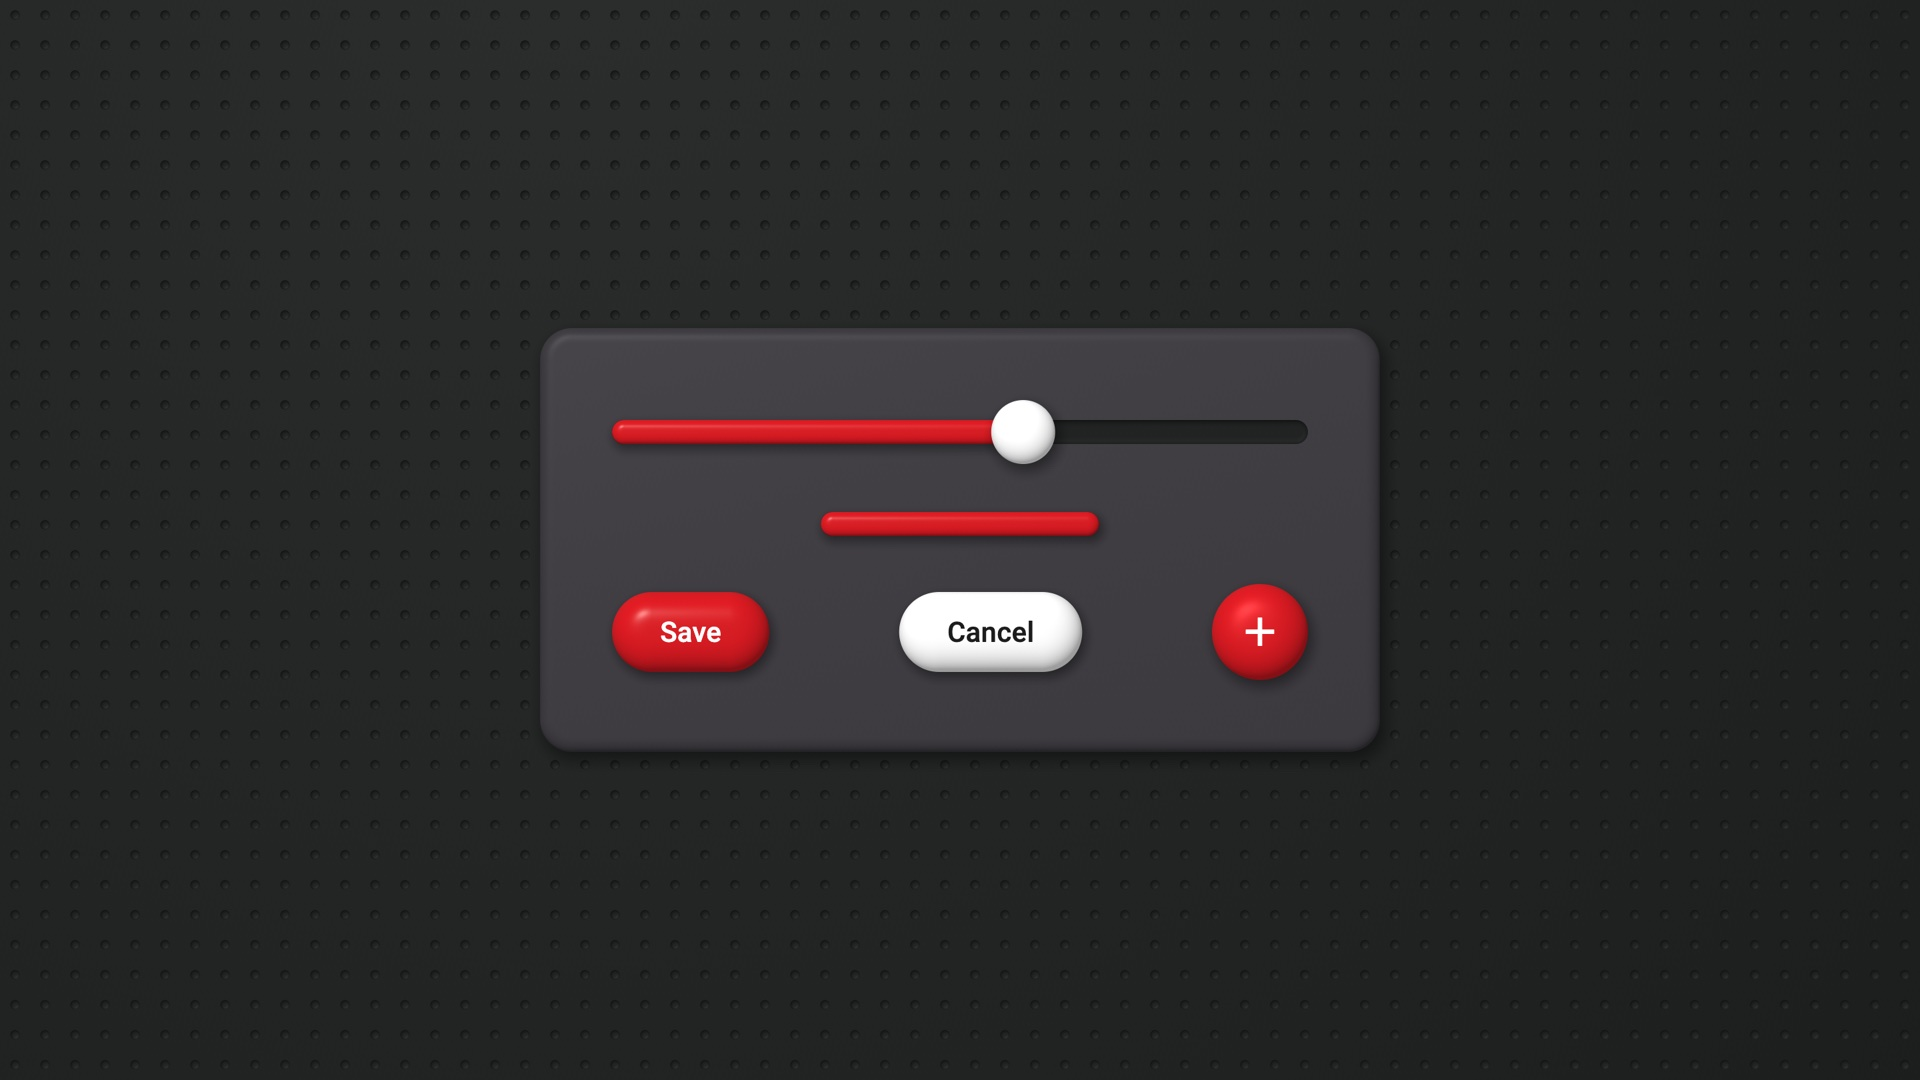
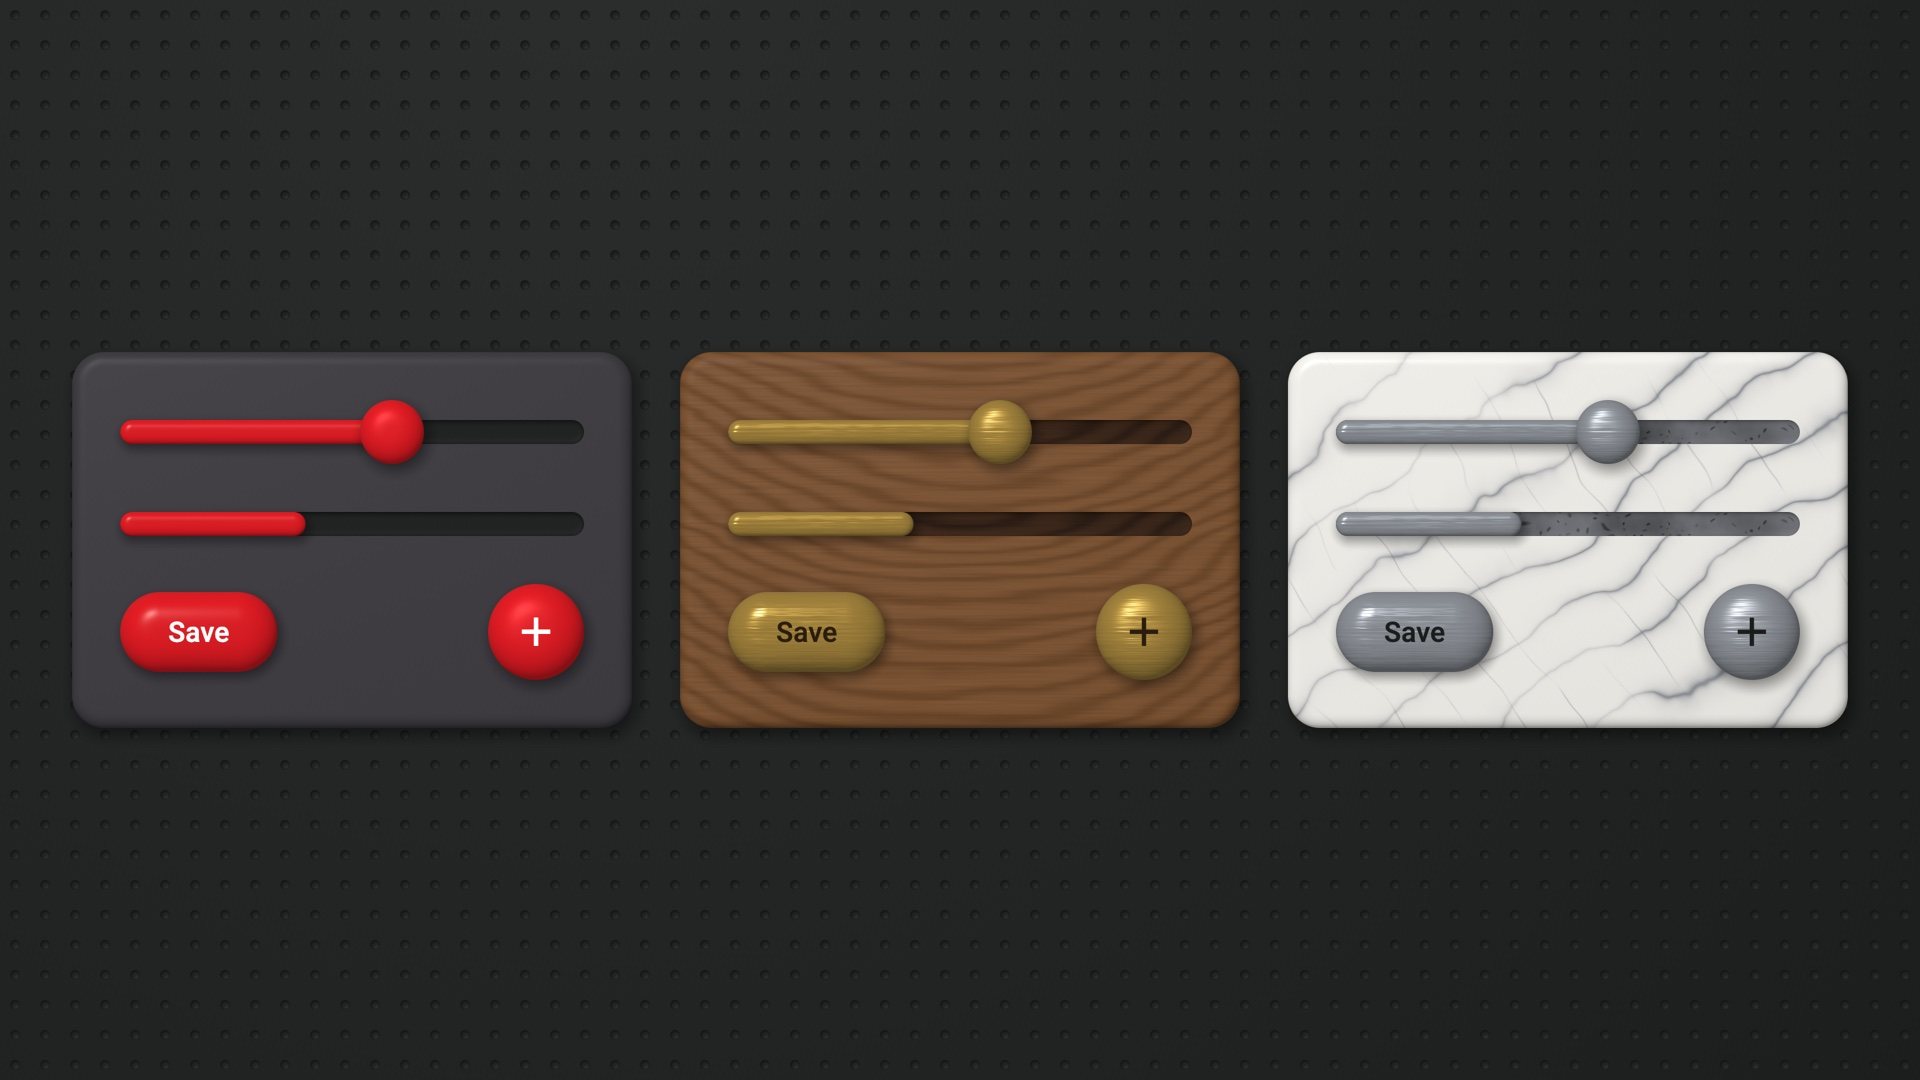
docs: show the controls in plastic, brass on oak and steel on marble

diff --git a/tool/screenshots/make_screenshots_test.dart b/tool/screenshots/make_screenshots_test.dart
@@ -48,6 +48,129 @@ abstract final class _Fonts {
   }
 }
 
+/// What one panel of controls is made of, and the colour of each part.
+enum _Made {
+  ofPlastic(
+    panel: PhysicalTexture.none,
+    panelColor: _Shot.panel,
+    fittings: PhysicalTexture.none,
+    fittingsColor: _Shot.accent,
+    labelColor: _Shot.paper,
+    track: PhysicalTexture.none,
+    trackColor: _Shot.background,
+  ),
+  ofOakAndBrass(
+    panel: PhysicalTexture.oak,
+    panelColor: Color(0xFF7A5230),
+    fittings: PhysicalTexture.brass,
+    fittingsColor: Color(0xFFC9A24B),
+    labelColor: Color(0xFF2B1D0E),
+    track: PhysicalTexture.walnut,
+    trackColor: Color(0xFF3A2414),
+  ),
+  ofMarbleAndSteel(
+    panel: PhysicalTexture.carrara,
+    panelColor: Color(0xFFE9E7E2),
+    fittings: PhysicalTexture.stainlessSteel,
+    fittingsColor: Color(0xFFAEB4BC),
+    labelColor: Color(0xFF1A1D1C),
+    track: PhysicalTexture.granite,
+    trackColor: Color(0xFF6E7075),
+  );
+
+  const _Made({
+    required this.panel,
+    required this.panelColor,
+    required this.fittings,
+    required this.fittingsColor,
+    required this.labelColor,
+    required this.track,
+    required this.trackColor,
+  });
+
+  /// What the panel is made of.
+  final PhysicalTexture panel;
+  final Color panelColor;
+
+  /// What the buttons, the bead and the bar are made of.
+  final PhysicalTexture fittings;
+  final Color fittingsColor;
+  final Color labelColor;
+
+  /// What the recessed tracks are made of.
+  final PhysicalTexture track;
+  final Color trackColor;
+}
+
+/// A slider, a progress bar and two buttons on a panel, all [made] of the
+/// same few substances.
+class _Controls extends StatelessWidget {
+  const _Controls(this.made);
+
+  static const _slid = 0.6;
+  static const _filled = 0.4;
+  static const _buttonDiameter = 48.0;
+
+  final _Made made;
+
+  @override
+  Widget build(BuildContext context) {
+    final bar = PhysicalMaterial.gloss.withTexture(made.fittings);
+    final track = PhysicalMaterial.well.withTexture(made.track);
+    return PhysicalPanel(
+      color: made.panelColor,
+      texture: made.panel,
+      isRaised: true,
+      child: Padding(
+        padding: const EdgeInsets.all(_Shot.gap),
+        child: Column(
+          mainAxisSize: MainAxisSize.min,
+          spacing: _Shot.gap,
+          children: [
+            PhysicalSlider(
+              value: _slid,
+              onChanged: (_) {},
+              barColor: made.fittingsColor,
+              trackColor: made.trackColor,
+              thumbColor: made.fittingsColor,
+              barMaterial: bar,
+              trackMaterial: track,
+              thumbMaterial: PhysicalMaterial.bead.withTexture(made.fittings),
+            ),
+            PhysicalProgressBar(
+              fraction: _filled,
+              barColor: made.fittingsColor,
+              trackColor: made.trackColor,
+              barMaterial: bar,
+              trackMaterial: track,
+            ),
+            Row(
+              mainAxisAlignment: MainAxisAlignment.spaceBetween,
+              children: [
+                PhysicalPillButton(
+                  color: made.fittingsColor,
+                  foregroundColor: made.labelColor,
+                  material: bar,
+                  onPressed: () {},
+                  child: const Text('Save'),
+                ),
+                PhysicalIconButton(
+                  diameter: _buttonDiameter,
+                  color: made.fittingsColor,
+                  material: PhysicalMaterial.bead.withTexture(made.fittings),
+                  tooltip: 'Add',
+                  onPressed: () {},
+                  icon: Icon(Icons.add, color: made.labelColor),
+                ),
+              ],
+            ),
+          ],
+        ),
+      ),
+    );
+  }
+}
+
 PhysicalMaterial _of(PhysicalTexture texture) {
   return PhysicalMaterial.satin.withTexture(texture);
 }
@@ -136,21 +259,24 @@ void main() {
         columns: 3,
         bodies: [
           _slab(
-            _of(PhysicalTexture.slate.imperfect(0.7))
-                .withEffect(const PhysicalEffect.rain(intensity: 0.9)),
+            _of(
+              PhysicalTexture.slate.imperfect(0.7),
+            ).withEffect(const PhysicalEffect.rain(intensity: 0.9)),
           ),
           _slab(
-            _of(PhysicalTexture.oak.aged(0.7).imperfect(0.6)).withEffect(
-              const PhysicalEffect.flame(scorch: 0.6, embers: 0.7),
-            ),
+            _of(
+              PhysicalTexture.oak.aged(0.7).imperfect(0.6),
+            ).withEffect(const PhysicalEffect.flame(scorch: 0.6, embers: 0.7)),
           ),
           _slab(
-            _of(PhysicalTexture.copper.aged(1).dented(0.4))
-                .withDecals(const PhysicalDecals(dew: 0.7)),
+            _of(
+              PhysicalTexture.copper.aged(1).dented(0.4),
+            ).withDecals(const PhysicalDecals(dew: 0.7)),
           ),
           _slab(
-            _of(PhysicalTexture.travertine.aged(0.5).dented(0.9))
-                .withDecals(const PhysicalDecals(dew: 0.3)),
+            _of(
+              PhysicalTexture.travertine.aged(0.5).dented(0.9),
+            ).withDecals(const PhysicalDecals(dew: 0.3)),
           ),
           _slab(
             PhysicalMaterial.gloss.withEffect(
@@ -192,58 +318,14 @@ void main() {
     await _record(
       tester,
       'controls',
-      Center(
-        child: SizedBox(
-          width: 420,
-          child: PhysicalPanel(
-            color: _Shot.panel,
-            isRaised: true,
-            child: Padding(
-              padding: _Shot.padding,
-              child: Column(
-                mainAxisSize: MainAxisSize.min,
-                spacing: _Shot.gap,
-                children: [
-                  PhysicalSlider(
-                    value: 0.6,
-                    onChanged: (_) {},
-                    barColor: _Shot.accent,
-                    trackColor: _Shot.background,
-                    thumbColor: _Shot.paper,
-                  ),
-                  const PhysicalProgressBar(
-                    fraction: 0.4,
-                    barColor: _Shot.accent,
-                    trackColor: _Shot.background,
-                  ),
-                  Row(
-                    mainAxisAlignment: MainAxisAlignment.spaceBetween,
-                    children: [
-                      PhysicalPillButton(
-                        color: _Shot.accent,
-                        foregroundColor: _Shot.paper,
-                        onPressed: () {},
-                        child: const Text('Save'),
-                      ),
-                      PhysicalPillButton(
-                        color: _Shot.paper,
-                        foregroundColor: _Shot.background,
-                        onPressed: () {},
-                        child: const Text('Cancel'),
-                      ),
-                      PhysicalIconButton(
-                        diameter: 48,
-                        color: _Shot.accent,
-                        tooltip: 'Add',
-                        onPressed: () {},
-                        icon: const Icon(Icons.add, color: _Shot.paper),
-                      ),
-                    ],
-                  ),
-                ],
-              ),
-            ),
-          ),
+      const Center(
+        child: Row(
+          spacing: _Shot.gap,
+          children: [
+            Expanded(child: _Controls(_Made.ofPlastic)),
+            Expanded(child: _Controls(_Made.ofOakAndBrass)),
+            Expanded(child: _Controls(_Made.ofMarbleAndSteel)),
+          ],
         ),
       ),
     );

diff --git a/README.md b/README.md
@@ -256,7 +256,7 @@ two shift in opposite directions.
 
 ## Controls and panels
 
-![A slider, a progress bar, pill buttons and an icon button on a panel](https://raw.githubusercontent.com/WAMF/kiss_physical/main/screenshots/controls.jpg)
+![The same slider, progress bar and buttons three times: in plastic, in brass on oak, and in steel on marble](https://raw.githubusercontent.com/WAMF/kiss_physical/main/screenshots/controls.jpg)
 
 | Widget | What it is |
 |---|---|
